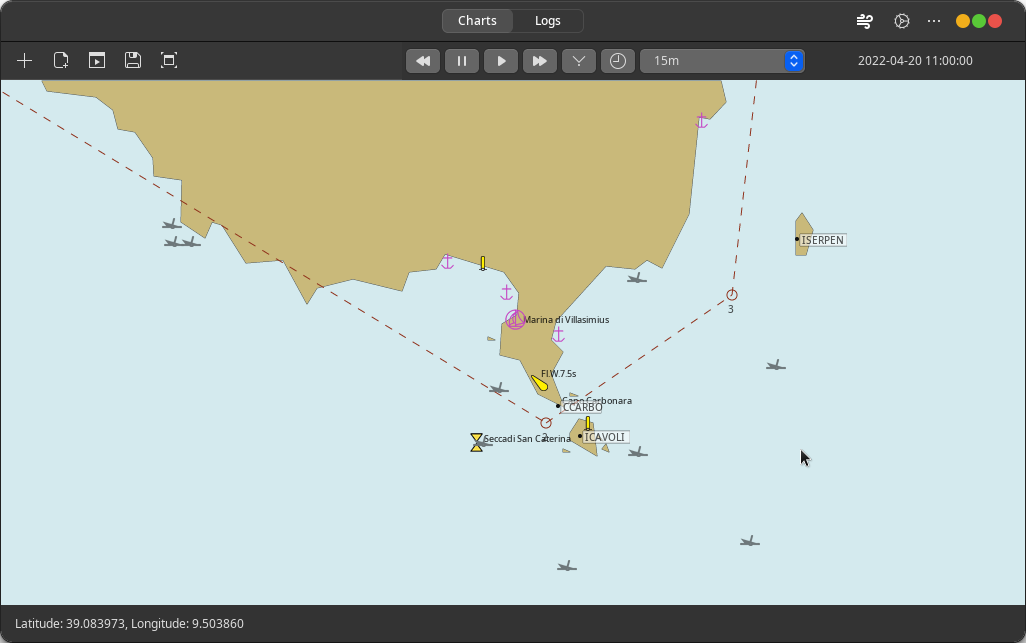
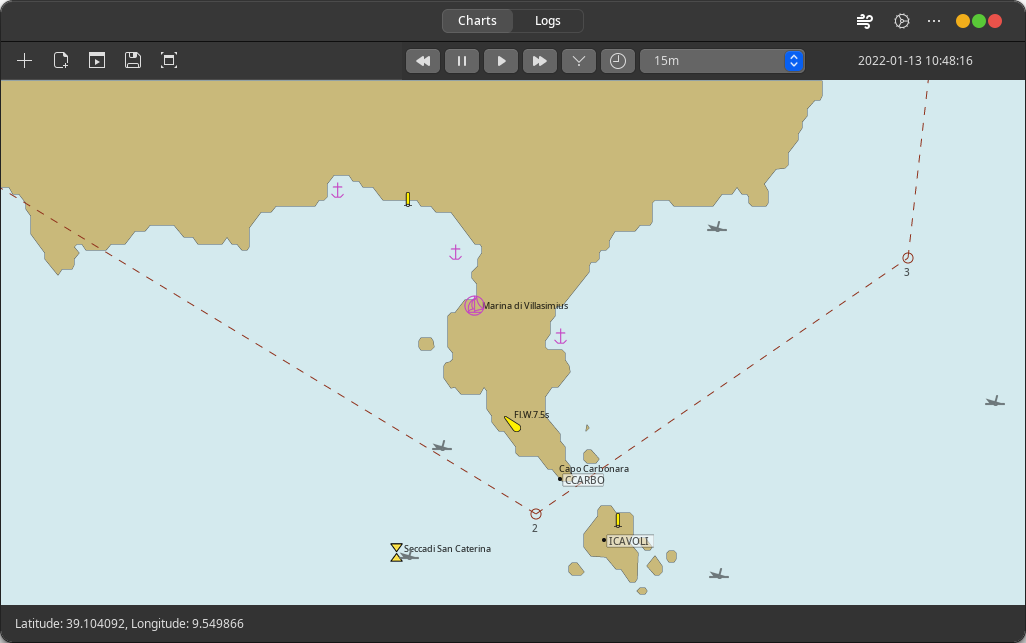
minors

diff --git a/gweatherrouting/gtk/charts/gshhs.py b/gweatherrouting/gtk/charts/gshhs.py
@@ -257,8 +257,6 @@ class GSHHSVectorChart(ChartLayer):
 		self.countries = list(filter(lambda x: len(x) == 4, map(lambda x: x.split(';'), f.read().split('\n'))))
 		f.close()
 
-
-
 	def onRegister(self, onTickHandler = None):
 		pass
 
@@ -273,11 +271,11 @@ class GSHHSVectorChart(ChartLayer):
 			q = 'l'
 		elif scale > 200:
 			q = 'i'
-		elif scale > 30:
+		elif scale >= 15:
 			q = 'h'
-		elif scale < 30:
-			q = 'h' #f
-		#print(scale, q)
+		elif scale < 15:
+			q = 'f'
+			
 		self.drawer.draw(gpsmap, cr, self.vectorFiles[q+'1'], boundingGeometry)
 
 		if scale < 4500:
